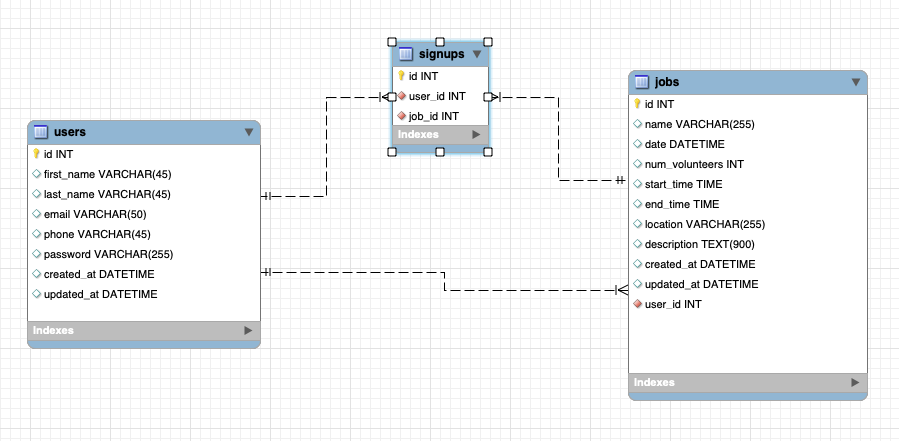
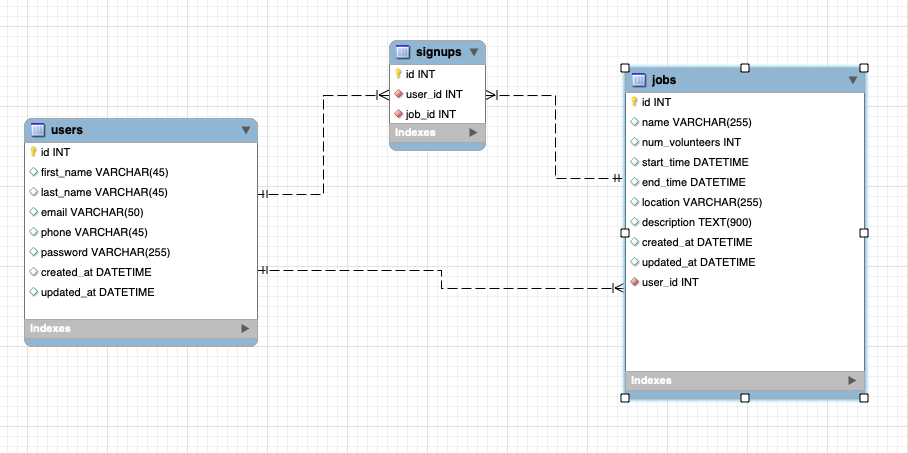
Update project: change remove date and set start/end date/times

diff --git a/flask_app/templates/edit.html b/flask_app/templates/edit.html
@@ -35,14 +35,12 @@
                     <input type="hidden" name="id" value = "{{ one_job.id }}">
                     <label for="name">Name</label>
                     <input type="text" value="{{ one_job.name }}" name="name" >
-                    <label for="date">Date</label>
-                    <input type="date" value="{{ one_job.date }}" required name="date" >
                     <label for="num_volunteers">Number of Volunteers</label>
                     <input type="number" value="{{ one_job.num_volunteers }}" name="num_volunteers" >
-                    <label for="start_time">Start Time</label>
-                    <input type="time" value="{{ one_job.start_time }}" required name="start_time">
-                    <label for="time">End Time</label>
-                    <input type="time" value="{{ one_job.end_time }}" required name="end_time" >
+                    <label for="start_time">Start Date & Time</label>
+                    <input type="datetime-local" value="{{ one_job.start_time }}" required name="start_time">
+                    <label for="time">End Date & Time</label>
+                    <input type="datetime-local" value="{{ one_job.end_time }}" required name="end_time" >
                     <label for="location">Location</label>
                     <input type="text" value="{{ one_job.location }}" name="location" >
                     <label for="description">Description</label>

diff --git a/flask_app/templates/new.html b/flask_app/templates/new.html
@@ -33,14 +33,12 @@
                 <form class="formCreate" action="/job/create" method="POST">
                     <label for="name">Name</label>
                     <input type="text" placeholder="job title" name="name" >
-                    <label for="date">Date</label>
-                    <input type="date" placeholder="" required name="date" >
                     <label for="num_volunteers">Number of Volunteers</label>
                     <input type="number" placeholder="qty of Volunteers" name="num_volunteers" >
                     <label for="start_time">Start Time</label>
-                    <input type="time" placeholder="" required name="start_time" >
+                    <input type="datetime-local" placeholder="" required name="start_time" >
                     <label for="time">End Time</label>
-                    <input type="time" placeholder="" required name="end_time" >
+                    <input type="datetime-local" placeholder="" required name="end_time" >
                     <label for="location">Location</label>
                     <input type="text" placeholder="At least 5 characters" name="location" >
                     <label for="description">Description</label>

diff --git a/flask_app/templates/show.html b/flask_app/templates/show.html
@@ -52,9 +52,8 @@
                             </form>
                         </li>
                         {% endif %}
-                        <li class="tdShow"><span>Date:</span> {{ one_job.date.strftime('%m-%d-%Y') }}</li>
-                        <li class="tdShow"><span>Start Time:</span> {{ one_job.start_time }}</li>
-                        <li class="tdShow"><span>End Time:</span> {{ one_job.end_time }}</li>
+                        <li class="tdShow"><span>Start Date & Time:</span> {{ one_job.start_time.strftime('%m-%d-%Y - %I:%M %p') }}</li>
+                        <li class="tdShow"><span>End Date & Time:</span> {{ one_job.end_time.strftime('%m-%d-%Y - %I:%M %p') }}</li>
                         <li class="tdShow"><span>Number of Volunteers:</span> {{ one_job.num_volunteers }}</li>
                         <li class="tdShow"><span>Location:</span> {{ one_job.location }}</li>
                         <li class="tdShow"><span>Description:</span> {{ one_job.description }}</li>

diff --git a/flask_app/templates/dashboard.html b/flask_app/templates/dashboard.html
@@ -36,7 +36,7 @@
                     <tr class="trDash">
                         <td class="tdDash">{{ r.creator.first_name }}</td>
                         <td class="tdDash">{{ r.name }}</td>
-                        <td class="tdDash">{{ r.date.strftime('%m-%d-%Y') }}</td>
+                        <td class="tdDash">{{ r.start_time.strftime('%m-%d-%Y') }}</td>
                         <td class="tdDash">{{ r.location }}</td>
                         <td class="tdDash"><a class="viewJob" href="/job/show/{{r.id}}" role="button">View</a></td>
                     </tr>

diff --git a/flask_app/models/job.py b/flask_app/models/job.py
@@ -16,7 +16,7 @@ class Job:
     def __init__(self,data):
         self.id = data['id']
         self.name = data['name']
-        self.date = data['date']
+#        self.date = data['date']
         self.num_volunteers = data['num_volunteers']
         self.start_time = data['start_time']
         self.end_time = data['end_time']
@@ -32,7 +32,7 @@ class Job:
     @classmethod
     def create_job(cls,data):
         """Create a job"""
-        query = "INSERT INTO jobs (name, date, num_volunteers, start_time, end_time, location, description, user_id) VALUES (%(name)s, %(date)s, %(num_volunteers)s, %(start_time)s, %(end_time)s, %(location)s, %(description)s, %(user_id)s);"
+        query = "INSERT INTO jobs (name, num_volunteers, start_time, end_time, location, description, user_id) VALUES (%(name)s, %(num_volunteers)s, %(start_time)s, %(end_time)s, %(location)s, %(description)s, %(user_id)s);"
         return connectToMySQL(cls.db).query_db(query,data)
 
     # CRUD READ METHODS -- Modified for many to many
@@ -41,7 +41,7 @@ class Job:
         """Get all the jobs in db"""
         query = '''SELECT * FROM jobs
                 JOIN users AS creators ON jobs.user_id = creators.id
-                ORDER BY jobs.date ASC;'''
+                ORDER BY jobs.start_time ASC;'''
         results = connectToMySQL(cls.db).query_db(query)
         all_jobs = []
         if not results:
@@ -97,7 +97,7 @@ class Job:
     @classmethod
     def update_job(cls,data):
         """Update the job"""
-        query = "UPDATE jobs SET name=%(name)s, date=%(date)s, num_volunteers=%(num_volunteers)s, start_time=%(start_time)s, end_time=%(end_time)s, location=%(location)s, description=%(description)s  WHERE jobs.id=%(id)s;"
+        query = "UPDATE jobs SET name=%(name)s, num_volunteers=%(num_volunteers)s, start_time=%(start_time)s, end_time=%(end_time)s, location=%(location)s, description=%(description)s  WHERE jobs.id=%(id)s;"
         return connectToMySQL(cls.db).query_db(query,data)
 
     # CRUD DELETE METHODS

diff --git a/flask_app/controllers/jobs.py b/flask_app/controllers/jobs.py
@@ -21,7 +21,7 @@ def create_new_job():
     # the keys must match exactly to the var in the query set
     data = {
         'name': request.form['name'],
-        'date': request.form['date'],
+#        'date': request.form['date'],
         'num_volunteers': request.form['num_volunteers'],
         'start_time': request.form['start_time'],
         'end_time': request.form['end_time'],
@@ -118,7 +118,7 @@ def update_job():
     data = {
         'id': int(request.form['id']),
         'name': request.form['name'],
-        'date': request.form['date'],
+#        'date': request.form['date'],
         'num_volunteers': request.form['num_volunteers'],
         'start_time': request.form['start_time'],
         'end_time': request.form['end_time'],
